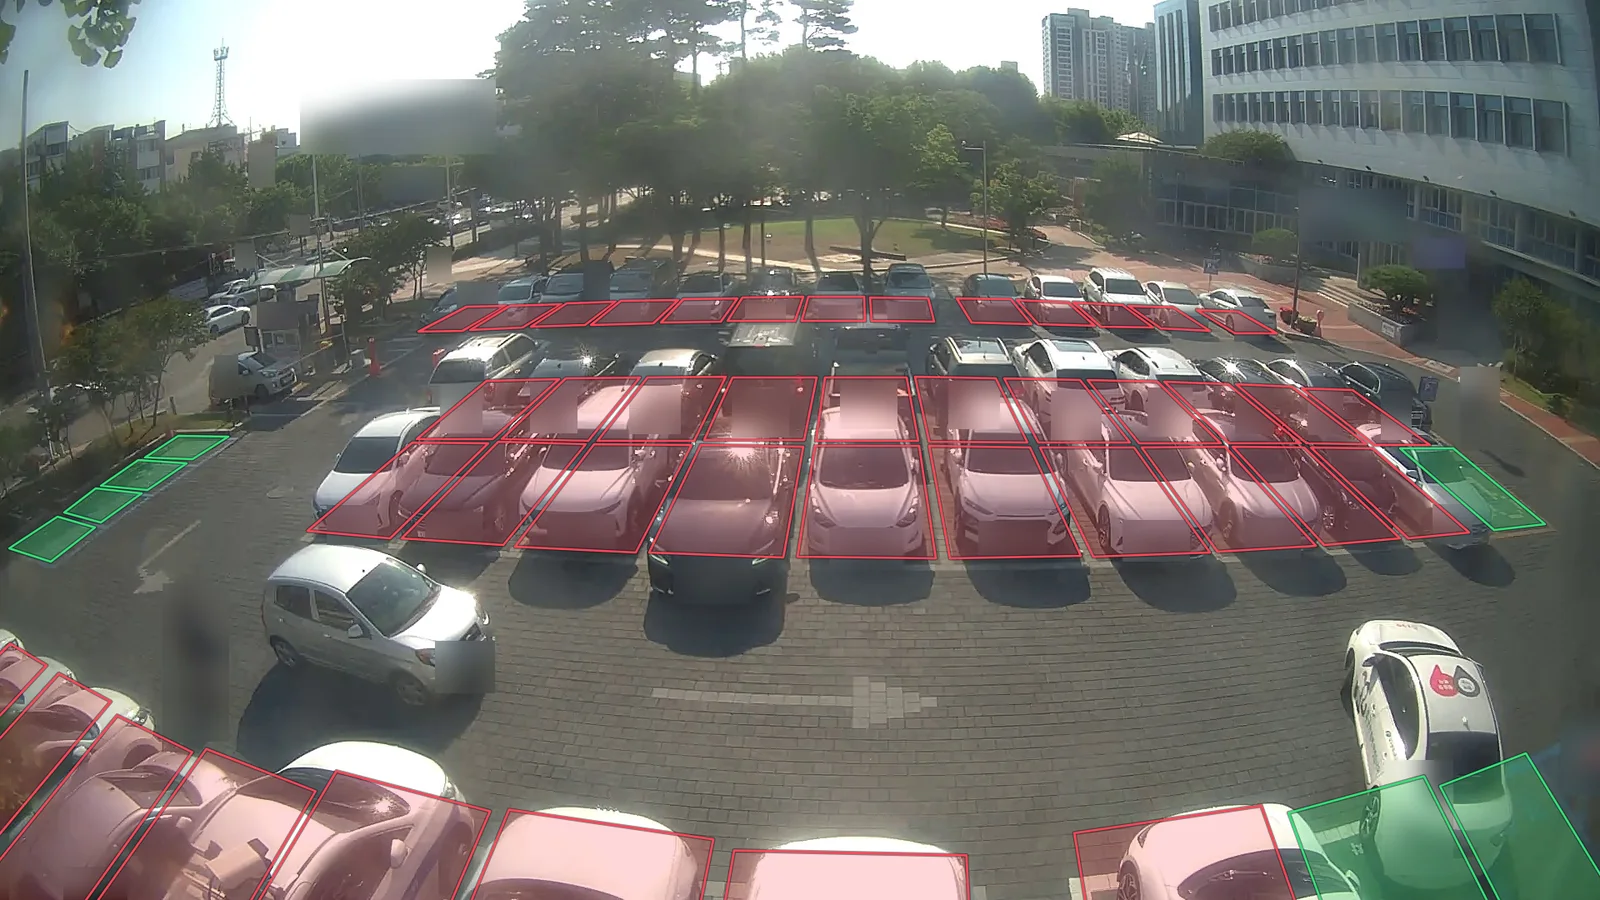
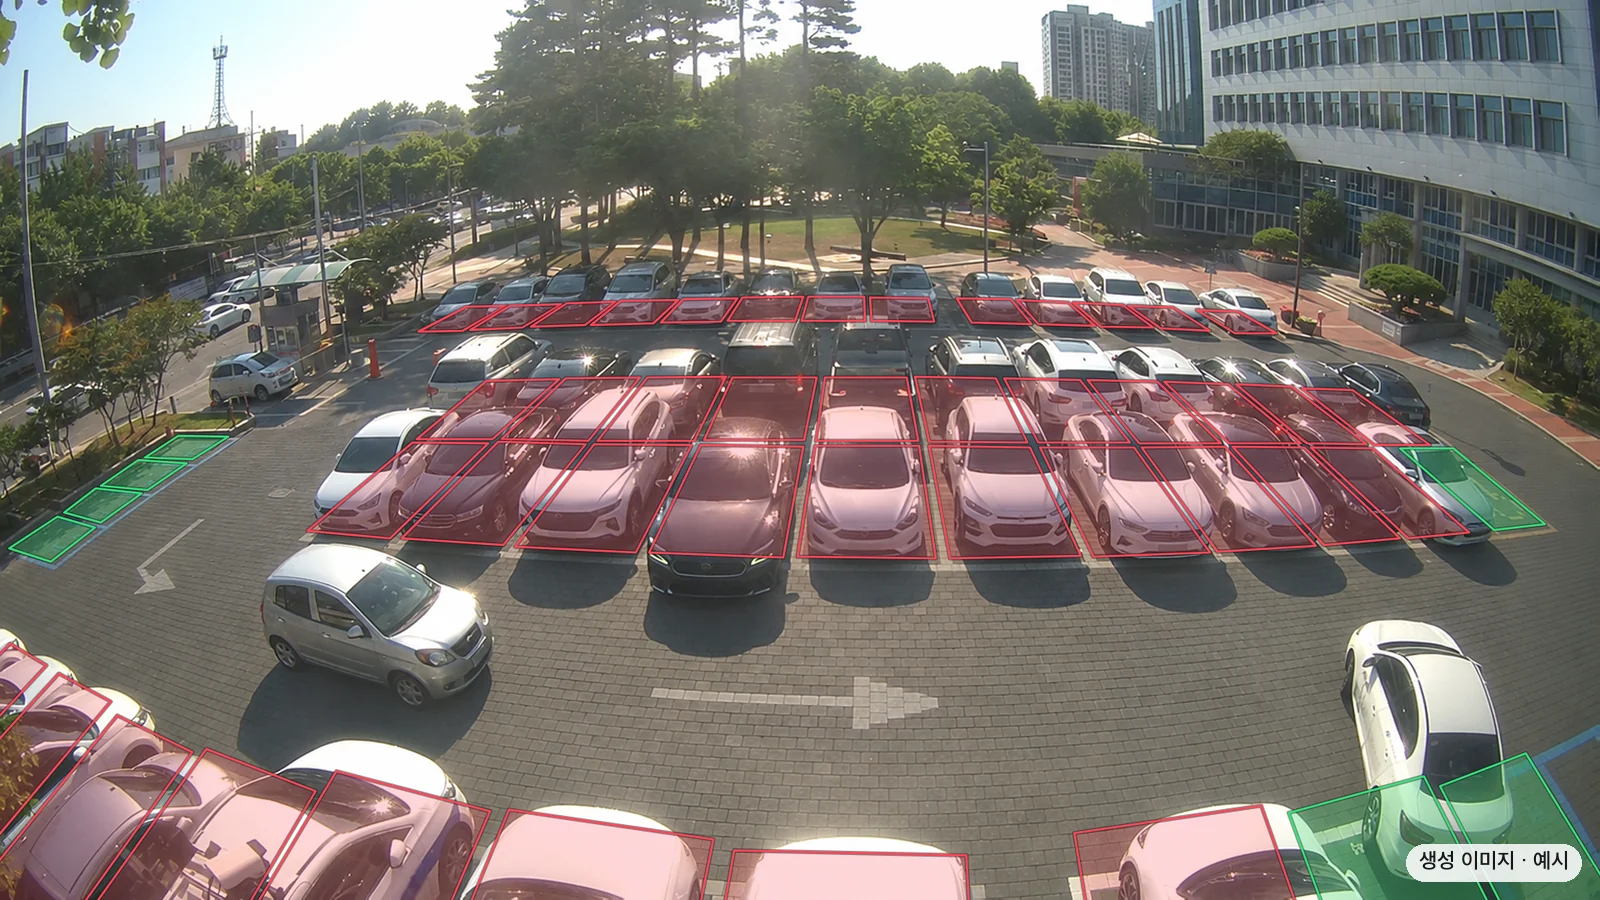
2.5D·라벨링 도구 자료 그림을 같은 구도의 생성 그림으로, 보정 화면에 소실점 표시
실제 CCTV 프레임과 같은 구도로 Codex 이미지 생성 그림을 만들고 원래 프레임 좌표에 맞춘 뒤(어긋남 중앙값 1px 안팎), 주차면 찬 칸·빈 칸, 2.5 m 바닥 격자와 하단면, 라벨링 도구 보정 화면을 실제 보정값과 라벨로 다시 그렸습니다. 보정 화면에는 소실점 이름표와 세로선 셋이 소실점으로 모이는 점선을 얹었습니다. 세 그림에 생성 이미지 딱지를 붙이고 설명과 대체 글을 맞췄습니다. ezet 도구 그림의 창 제목에서 em dash도 뺐습니다.

diff --git a/work/labeling-tool/index.html b/work/labeling-tool/index.html
@@ -95,8 +95,8 @@
     <section class="sec" aria-labelledby="h-media">
       <h2 id="h-media">자료</h2>
       <ul class="shots shots--wide shots--work">
-        <li><img src="/assets/img/work/labeling-tool/labeling-calib.webp" width="1600" height="956" alt="라벨링 도구의 카메라 보정 화면. 야외 주차장 CCTV 사진 위에 주차선을 따라 그은 가로선(초록)·세로선(주황)과 축척선, 바닥에 깔린 격자가 보이고, 왼쪽 아래에 초점거리 835 px·카메라 높이 6 m·좌우 기울임 같은 카메라 값이 있다. 번호판과 사람, 간판은 흐리게 가렸다." loading="lazy"><p class="shots__cap">바닥 주차선 기반 초점거리·카메라 높이·기울기 보정 화면</p></li>
-<li><img src="/assets/img/work/labeling-tool/labeling-ground.webp" width="1600" height="900" alt="보정한 값으로 야외 주차장 바닥에 2.5 m 간격 격자를 올린 CCTV 사진. 격자가 광각 렌즈를 따라 휘면서 실제 주차선과 나란히 놓이고, 차마다 바닥에 닿는 하단면 라벨이 초록 사각형으로 그려져 있다. 번호판과 사람, 간판은 흐리게 가렸다." loading="lazy"><p class="shots__cap">보정값으로 바닥에 올린 2.5 m 격자와 차량 하단면 라벨(초록)</p></li>
+        <li><img src="/assets/img/work/labeling-tool/labeling-calib.webp" width="1600" height="956" alt="라벨링 도구의 카메라 보정 화면. 야외 주차장 CCTV 화면 풍 그림 위에 주차선을 따라 그은 가로선(초록)·세로선(주황)과 축척선, 바닥 격자가 보이고, 세로선을 이어 그린 분홍 점선이 위쪽의 소실점 한 곳으로 모인다. 왼쪽 아래에 초점거리 835 px·카메라 높이 6 m·좌우 기울임 같은 카메라 값이 있다. 실제 현장 사진이 아니라 같은 구도로 만든 이미지다." loading="lazy"><p class="shots__cap">바닥 주차선과 소실점 기반 초점거리·카메라 높이·기울기 보정 화면<span class="shots__note">생성 이미지</span></p></li>
+<li><img src="/assets/img/work/labeling-tool/labeling-ground.webp" width="1600" height="900" alt="보정한 값으로 야외 주차장 바닥에 2.5 m 간격 격자를 올린 CCTV 화면 풍 그림. 격자가 광각 렌즈를 따라 휘면서 실제 주차선과 나란히 놓이고, 차마다 바닥에 닿는 하단면 라벨이 초록 사각형으로 그려져 있다. 실제 현장 사진이 아니라 같은 구도로 만든 이미지다." loading="lazy"><p class="shots__cap">보정값으로 바닥에 올린 2.5 m 격자와 차량 하단면 라벨(초록)<span class="shots__note">생성 이미지</span></p></li>
       </ul>
     </section>
     <section class="sec" aria-labelledby="h-others">

diff --git a/work/parking-ai/index.html b/work/parking-ai/index.html
@@ -100,7 +100,7 @@
     <section class="sec" aria-labelledby="h-media">
       <h2 id="h-media">자료</h2>
       <ul class="shots shots--wide shots--work">
-        <li><img src="/assets/img/work/parking-ai/parking-occupancy.webp" width="1600" height="900" alt="야외 주차장 CCTV 화면에 주차면이 칸마다 그려져 있고, 차가 선 칸은 빨강, 빈 칸은 초록으로 칠해져 있다. 차 하단면 라벨의 중심이 든 칸을 찬 칸으로 셌다. 번호판과 사람, 간판은 흐리게 가렸다." loading="lazy"><p class="shots__cap">차 하단면 라벨 기준 주차면별 점유(빨강)·빈 칸(초록) 구분</p></li>
+        <li><img src="/assets/img/work/parking-ai/parking-occupancy.webp" width="1600" height="900" alt="야외 주차장을 높은 곳에서 내려다본 CCTV 화면 풍 그림에 주차면이 칸마다 그려져 있고, 차가 선 칸은 빨강, 빈 칸은 초록으로 칠해져 있다. 차 하단면 라벨의 중심이 든 칸을 찬 칸으로 셌다. 실제 현장 사진이 아니라 같은 구도로 만든 이미지다." loading="lazy"><p class="shots__cap">차 하단면 라벨 기준 주차면별 점유(빨강)·빈 칸(초록) 구분<span class="shots__note">생성 이미지</span></p></li>
       </ul>
     </section>
     <section class="sec" aria-labelledby="h-others">

diff --git a/README.md b/README.md
@@ -115,7 +115,7 @@ python3 -m http.server 8765    # http://127.0.0.1:8765 에서 미리 보기
   - 「자료」 줄의 그림은 비율이 달라도 높이가 같고, 폭은 그림 비율대로입니다.
 - 회사 자료는 공개해도 되는 것만 싣습니다(현장·고객이 드러나면 가립니다).
 - 글은 AI·컴퓨터 분야에서 흔히 쓰는 용어(amodal 검출, 지식 증류, RAG, 호모그래피 등)로, 짧고 구체적인 문장으로 씁니다. 처리 시간·정확도 같은 수치와 고객·현장 이름, 사내 모델·저장소 이름은 적지 않습니다(2026-10-19 사용자 결정).
-  - 지금 라벨링 도구·2.5D 차량 하단면 검출 그림은 사내 라벨링 도구의 CCTV 화면(카메라 보정, 보정값으로 바닥에 올린 격자, 주차면 찬 칸·빈 칸)이고, 번호판·사람·간판을 흐리게 했습니다. 도구는 읽기만 하고(GET) 아무것도 저장하지 않았습니다.
+  - 지금 라벨링 도구·2.5D 차량 하단면 검출 그림(카메라 보정, 보정값으로 바닥에 올린 격자, 주차면 찬 칸·빈 칸)은 사내 CCTV 프레임과 같은 구도로 다시 만든 생성 그림(2026-10-21)입니다. 그 위의 보정 화면·격자·하단면·주차면 색은 실제 보정값과 라벨로 그렸고, 보정 화면에는 소실점 이름표와 세로선이 소실점으로 모이는 점선을 얹었습니다. 사내 라벨링 도구는 읽기만 하고(GET) 아무것도 저장하지 않았습니다.
   - 안전 영상 분석·위험성평가 AI 그림은 실제 자료가 없어 만든 그림이고, 감지 상자는 직접 그렸습니다.
 - 사이트 글에는 em dash(—)와 불릿(목록 앞 점)을 쓰지 않습니다. 목록(맡은 일·앱 소개·방침·이력서)은 점 없이 줄 사이 가는 선이나 간격으로 나누고, 맡은 일은 넓은 화면(1280px, 칸 폭 약 900px)에서 한 줄에 들도록 짧게 씁니다(2026-10-21 사용자).
 
